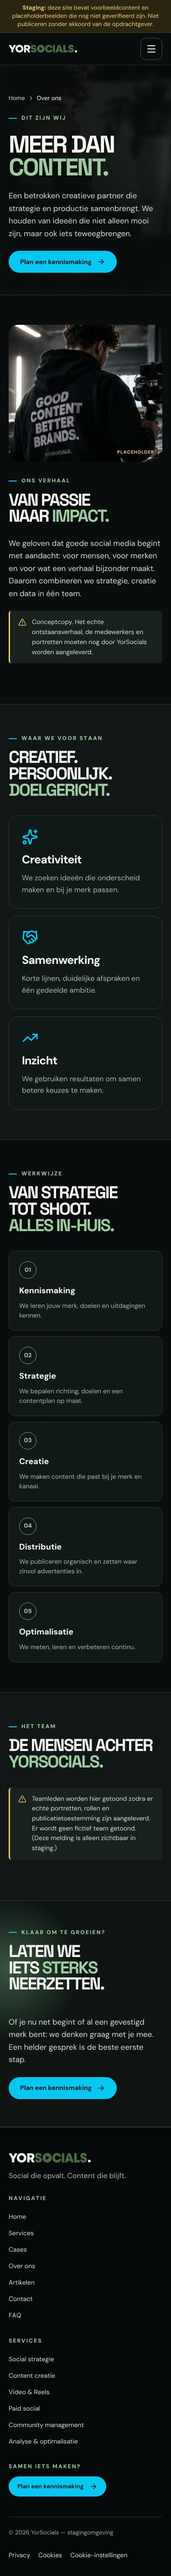
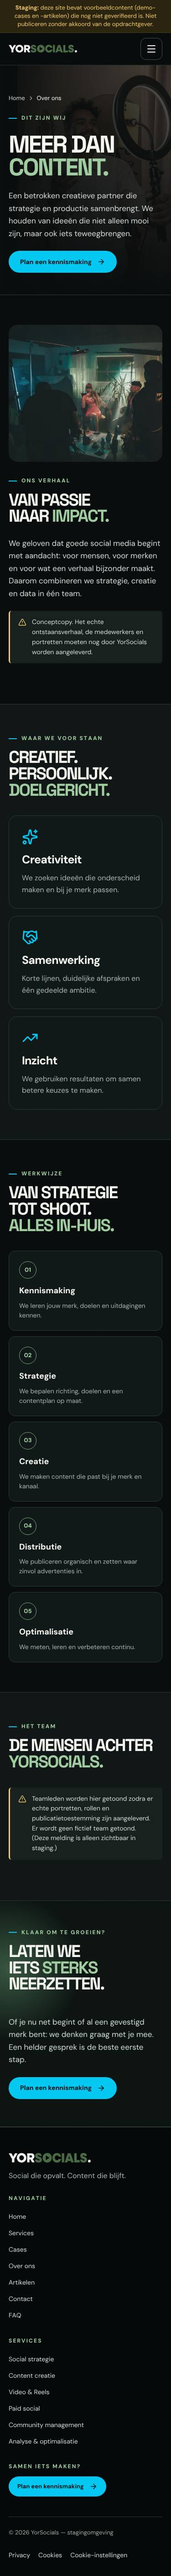
Replace mockup placeholders with Pexels stock photos
Use licensed Pexels photos (no third-party brands or statistics in frame)
instead of the AI-mockup crops, credit photographers in the media library
and docs/BEELDCREDITS.md, and refresh screenshots and docs.

Claude-Session: https://claude.ai/code/session_01EtF7gVq3KbB58rPF1dPD8G

Changed region(s): [[0.0293, 0.1248, 0.968, 0.1873], [0.3813, 0.0, 1.0, 0.0624]]

diff --git a/src/content/data/media.ts b/src/content/data/media.ts
@@ -1,40 +1,40 @@
 import type { MediaAsset } from '../types';
 
 /**
- * Mediabibliotheek.
+ * Mediabibliotheek. Alle foto's zijn stockfoto's van Pexels onder de Pexels-licentie
+ * (https://www.pexels.com/license/): gratis te gebruiken, ook commercieel, naamsvermelding
+ * niet verplicht. Niet toegestaan: suggereren dat herkenbare personen YorSocials aanbevelen
+ * of bij YorSocials werken — gebruik ze dus alleen als sfeerbeeld, nooit bij team of cases
+ * als "onze klant". Credits staan in `source` en in docs/BEELDCREDITS.md.
  *
- * De foto's zijn bijgesneden zodat de in de mockups ingebakken (verzonnen) statistieken,
- * UI-kaarten en handgeschreven teksten wegvallen; een merklogo van derden is geblurd.
- * strategy.jpg en analytics.jpg zijn neutrale gegenereerde illustraties zonder cijfers.
- * Originele uitsneden: design/placeholder-bronnen/ (niet publiceren).
- * Alle huidige beelden zijn uitsneden uit eerdere AI-mockups en dus
- * PLACEHOLDERS (zie design/handover/02_DESIGNSYSTEEM_EN_COMPONENTEN.md). Vervang ze door
- * eigen of gelicentieerde fotografie vóór livegang; `isPlaceholder` stuurt het demolabel.
+ * Eigen fotografie van YorSocials kan deze beelden later één-op-één vervangen.
  */
-const placeholder = (
-  file: string,
+const pexels = (
+  id: number,
   width: number,
   height: number,
   alt: string,
+  photographer: string,
   focalPoint = '50% 50%',
-  source = 'Uitsnede uit AI-gegenereerde designmockup (placeholder, geen licentie voor publicatie)',
 ): MediaAsset => ({
-  src: `/images/demo/placeholder-${file}`,
+  src: `/images/stock/pexels-${id}.jpg`,
   width,
   height,
   alt,
   focalPoint,
-  source,
-  isPlaceholder: true,
+  source: `Pexels-licentie — foto: ${photographer} (https://www.pexels.com/photo/${id}/)`,
+  isPlaceholder: false,
 });
 
 export const media = {
-  hero: placeholder('hero.jpg', 340, 373, 'Contentmaker met camera-gimbal tijdens een opname in een donkere studio', '50% 30%'),
-  shoot: placeholder('shoot.jpg', 325, 373, 'Videomaker met camera-gimbal op een set met studiolampen', '50% 30%'),
-  creator: placeholder('creator.jpg', 285, 194, 'Creatieve maker in een hoodie op een kantoor met beeldschermen', '40% 40%'),
-  strategy: placeholder('strategy.jpg', 1200, 800, 'Abstracte illustratie van een plan op papier', '50% 50%', 'Gegenereerde neutrale placeholder (geen fotografie)'),
-  analytics: placeholder('analytics.jpg', 1200, 800, 'Abstracte illustratie van een staafdiagram zonder cijfers', '50% 50%', 'Gegenereerde neutrale placeholder (geen fotografie)'),
-  fitness: placeholder('fitness.jpg', 236, 238, 'Sporter in een donkere sportschool tijdens een fotoshoot'),
+  hero: pexels(4914352, 1600, 1066, 'Cameraman filmt met een professionele camera in een studio met softboxen', 'Kyle Loftus', '70% 40%'),
+  shoot: pexels(30878455, 1600, 1067, 'Filmcrew aan het werk op een sfeervol verlichte set', 'Javo Films', '50% 50%'),
+  onSet: pexels(30878454, 1600, 1067, 'Filmset met neonverlichting en een cameracrew', 'Javo Films', '50% 50%'),
+  creator: pexels(8303436, 1600, 2400, 'Lachende maker die zichzelf filmt met een smartphone en ringlamp', 'ANTONI SHKRABA production', '50% 30%'),
+  gimbal: pexels(20151432, 1600, 2400, 'Smartphone op een gimbal die een video opneemt in een woonkamer', 'Kenneth Surillo', '50% 35%'),
+  strategy: pexels(4623462, 1600, 1065, 'Twee collega’s bespreken een contentplanning op een wand vol sticky notes', 'Ketut Subiyanto', '60% 40%'),
+  analytics: pexels(7109291, 922, 875, 'Laptop met een grafiek op het scherm', 'Tiger Lily', '50% 40%'),
+  fitness: pexels(17210051, 1600, 1067, 'Sporter die even rust neemt in een donkere sportschool', 'Doğu Tuncer', '45% 40%'),
 } satisfies Record<string, MediaAsset>;
 
 export const logo = {

diff --git a/src/content/data/services.ts b/src/content/data/services.ts
@@ -104,7 +104,7 @@ export const services: Service[] = [
       'Je wilt met Reels of TikTok starten, maar weet niet hoe.',
       'Elke video is een los project in plaats van een herkenbaar format.',
     ],
-    heroImage: media.creator,
+    heroImage: media.gimbal,
     deliverables: ['Concept en scripts', 'Short-form video', 'Editing en motion', 'Optimalisatie per platform'],
     process: defaultProcess,
     faqs: [
@@ -237,6 +237,6 @@ export const workProcess: ProcessStep[] = [
   { title: 'Kennismaking', copy: 'We leren jouw merk, doelen en uitdagingen kennen.', image: media.creator },
   { title: 'Strategie', copy: 'We bepalen richting, doelen en een contentplan op maat.', image: media.strategy },
   { title: 'Creatie', copy: 'We maken content die past bij je merk en kanaal.', image: media.shoot },
-  { title: 'Distributie', copy: 'We publiceren organisch en zetten waar zinvol advertenties in.', image: media.hero },
+  { title: 'Distributie', copy: 'We publiceren organisch en zetten waar zinvol advertenties in.', image: media.onSet },
   { title: 'Optimalisatie', copy: 'We meten, leren en verbeteren continu.', image: media.analytics },
 ];

diff --git a/src/components/StagingBanner.tsx b/src/components/StagingBanner.tsx
@@ -16,7 +16,7 @@ export function StagingBanner() {
         borderBottom: '1px solid #4a3d18',
       }}
     >
-      <strong>Staging:</strong> deze site bevat voorbeeldcontent en placeholderbeelden die nog niet geverifieerd zijn. Niet publiceren
+      <strong>Staging:</strong> deze site bevat voorbeeldcontent (demo-cases en -artikelen) die nog niet geverifieerd is. Niet publiceren
       zonder akkoord van de opdrachtgever.
     </div>
   );

diff --git a/src/content/data/articles.ts b/src/content/data/articles.ts
@@ -39,7 +39,7 @@ export const articles: Article[] = [
           '.',
         ],
       },
-      { type: 'image', image: { ...media.strategy, caption: 'Placeholderbeeld — vervangen door eigen fotografie.' } },
+      { type: 'image', image: { ...media.strategy, caption: 'Foto: Ketut Subiyanto via Pexels.' } },
     ],
     author: null,
     publishedAt: null,

diff --git a/src/content/types.ts b/src/content/types.ts
@@ -26,7 +26,7 @@ export interface MediaAsset {
   caption?: string;
   /** Herkomst/licentie. Verplicht voor livegang. */
   source: string;
-  /** true = placeholder uit AI-mockup; niet publicatieklaar. */
+  /** true = placeholder zonder publicatielicentie; krijgt in staging een "Placeholder"-label. */
   isPlaceholder: boolean;
   transcript?: string;
 }

diff --git a/README.md b/README.md
@@ -6,8 +6,8 @@ Productieversie van de publieke YorSocials-website, gebouwd volgens het overdrac
 **Stack:** Next.js 16 (App Router, statische generatie) · TypeScript strict · CSS Modules + design tokens ·
 lokaal gehoste fonts · Vitest · Playwright + axe-core.
 
-> **Status: staging.** De site bevat voorbeeldcontent en placeholderbeelden die nog niet geverifieerd
-> zijn. Zie [`docs/ONTBREKENDE_CONTENT.md`](docs/ONTBREKENDE_CONTENT.md) voor wat er nog nodig is vóór livegang.
+> **Status: staging.** De site bevat voorbeeldcontent (demo-cases en -artikelen) die nog niet geverifieerd
+> is. Beelden zijn stockfoto's van Pexels (zie [`docs/BEELDCREDITS.md`](docs/BEELDCREDITS.md)). Zie [`docs/ONTBREKENDE_CONTENT.md`](docs/ONTBREKENDE_CONTENT.md) voor wat er nog nodig is vóór livegang.
 
 ## Snel starten
 
@@ -57,7 +57,7 @@ src/
   styles/tokens.css       Design tokens (kleur, typografie, spacing, radii, elevation, breakpoints)
   fonts/                  Space Grotesk + DM Sans (woff2, SIL OFL)
 public/brand/             Aangeleverd logo + contrastvariant voor donkere achtergrond
-public/images/demo/       Placeholderbeelden (NIET publicatieklaar)
+public/images/stock/      Stockfoto's van Pexels (Pexels-licentie, zie docs/BEELDCREDITS.md)
 design/                   Overdrachtspakket: referentiebeelden, tokens, componentinventaris, documentatie
 docs/                     Ontbrekende content, routes, CMS, deployment, testresultaten, screenshots
 tests/unit, tests/e2e     Vitest- en Playwright-tests
@@ -68,9 +68,9 @@ tests/unit, tests/e2e     Vitest- en Playwright-tests
 - **Geen verzonnen feiten.** E-mail, telefoon, socials, boekingslink, team, klantnamen, resultaten en quotes
   staan op `null`/leeg en worden dan simpelweg niet getoond. Een unit-test bewaakt dat er geen cijfermatige
   claims in teksten staan en dat resultaten alleen met bron + periode + akkoord verschijnen.
-- **Placeholderbeelden opgeschoond.** De aangeleverde uitsneden bevatten ingebakken verzonnen statistieken
-  (“+278% gemiddelde groei bij onze klanten”), UI-kaarten en een merklogo van derden. Ze zijn bijgesneden/geblurd;
-  twee zijn vervangen door neutrale gegenereerde illustraties. Originelen staan in `design/placeholder-bronnen/`.
+- **Stockfoto's in plaats van mockup-uitsneden.** De aangeleverde uitsneden bevatten ingebakken verzonnen
+  statistieken (“+278% gemiddelde groei bij onze klanten”), UI-kaarten en een merklogo van derden. Ze zijn vervangen
+  door Pexels-foto's zonder merken of cijfers in beeld. Originelen staan alleen ter referentie in `design/placeholder-bronnen/`.
 - **Logo.** Het aangeleverde logo wordt als afbeelding gebruikt (niet nagebouwd). Omdat “YOR” zwart is en op de
   donkere achtergrond onleesbaar wordt, is `public/brand/logo-on-dark.png` afgeleid: alléén de zwarte delen zijn
   naar gebroken wit gezet. **Ter goedkeuring bij de merkeigenaar.**

diff --git a/docs/BEELDCREDITS.md b/docs/BEELDCREDITS.md
@@ -1,0 +1,24 @@
+# Beeldcredits
+
+Alle foto's op de website zijn stockfoto's van [Pexels](https://www.pexels.com), gebruikt onder de
+[Pexels-licentie](https://www.pexels.com/license/): gratis, ook commercieel, zonder verplichte naamsvermelding.
+Wel verboden: suggereren dat herkenbare personen een product aanbevelen of bij het bedrijf horen. Gebruik ze
+daarom alleen als sfeerbeeld — niet als teamfoto of als beeld van een (echte) klantcase.
+
+| Bestand | Gebruikt voor | Fotograaf | Bron |
+|---|---|---|---|
+| `pexels-4914352.jpg` | Homepage-hero, services, contact, 404 | Kyle Loftus | https://www.pexels.com/photo/4914352/ |
+| `pexels-30878455.jpg` | Aanpak, content creatie, demo-case horeca | Javo Films | https://www.pexels.com/photo/30878455/ |
+| `pexels-30878454.jpg` | Werkwijze-stap Distributie | Javo Films | https://www.pexels.com/photo/30878454/ |
+| `pexels-8303436.jpg` | Over ons, community management, demo-case lifestyle | ANTONI SHKRABA production | https://www.pexels.com/photo/8303436/ |
+| `pexels-20151432.jpg` | Video & Reels | Kenneth Surillo | https://www.pexels.com/photo/20151432/ |
+| `pexels-4623462.jpg` | Social strategie, artikelen, FAQ | Ketut Subiyanto | https://www.pexels.com/photo/4623462/ |
+| `pexels-7109291.jpg` | Paid social, analyse & optimalisatie (bijgesneden: papier met cijfers verwijderd) | Tiger Lily | https://www.pexels.com/photo/7109291/ |
+| `pexels-17210051.jpg` | Cases-hero, demo-case fitness | Doğu Tuncer | https://www.pexels.com/photo/17210051/ |
+
+Bij het kiezen is gelet op: geen zichtbare merken van derden, geen cijfers/statistieken in beeld, en passend
+bij de donkere, filmische huisstijl. Eigen fotografie van YorSocials kan elk bestand één-op-één vervangen via
+`src/content/data/media.ts`.
+
+De oorspronkelijke placeholderuitsneden uit de AI-mockups staan alleen nog ter referentie in
+`design/placeholder-bronnen/` en worden niet gepubliceerd (ze bevatten verzonnen statistieken).

diff --git a/docs/ONTBREKENDE_CONTENT.md b/docs/ONTBREKENDE_CONTENT.md
@@ -7,7 +7,7 @@ Overzicht van alles wat nog door YorSocials (of een bevoegde partij) moet worden
 
 | Onderdeel | Wat ontbreekt | Waar invullen | Blokkerend |
 |---|---|---|---|
-| Fotografie | Alle beelden zijn placeholders (bijgesneden AI-mockups of gegenereerde illustraties). Eigen of gelicentieerde fotografie met alt-tekst, focal point en bron/licentie. | `src/content/data/media.ts`, `public/images/` | **Ja** |
+| Fotografie | Nu Pexels-stockfoto's (gelicentieerd, zie [BEELDCREDITS.md](BEELDCREDITS.md)). Eigen fotografie van team, werk en studio maakt de site geloofwaardiger; stockfoto's mogen niet als team- of klantbeeld worden gebruikt. | `src/content/data/media.ts`, `public/images/` | Nee (aanbevolen) |
 | Logo | Akkoord op de contrastvariant `logo-on-dark.png`, of een officiële lichte logo-export. Liefst ook een SVG-versie. | `public/brand/` | **Ja** |
 | Dienstenaanbod | De zes diensten en hun teksten zijn een ontwerpvoorstel. Definitieve propositie, deliverables en werkwijze per dienst bevestigen. | `src/content/data/services.ts` | **Ja** |
 | Cases | 3–6 echte cases met schriftelijke toestemming, context, doel, aanpak, beeldmateriaal met toestemming, resultaten met bron + meetperiode, eventueel quote met akkoord. Huidige 4 cases zijn demo. | `src/content/data/cases.ts` | Nee (pagina toont een nette lege toestand) |

diff --git a/docs/TESTRESULTATEN.md b/docs/TESTRESULTATEN.md
@@ -11,7 +11,7 @@ Node 22, Chromium (Playwright 1.56).
 | Productiebuild | `npm run build` | ✅ 44 statische pagina's/assets + 1 API-route |
 | E2E desktop (1440×900) + mobiel (Pixel 7) | `npm run test:e2e` | ✅ 92/92 geslaagd |
 | Productiemodus-build | `NEXT_PUBLIC_CONTENT_MODE=production npm run build` | ✅ demo-cases/-artikelen en `/styleguide` geven 404, overzichten tonen lege toestand, sitemap bevat alleen indexeerbare pagina's |
-| Screenshots 375 / 768 / 1440 | `npm run screenshots` | ✅ 18 screenshots in `docs/screenshots/` |
+| Screenshots 375 / 768 / 1440 | `npm run screenshots` | ✅ 18 screenshots in `docs/screenshots/` (met Pexels-stockfoto’s) |
 
 ## Wat de tests dekken
 
